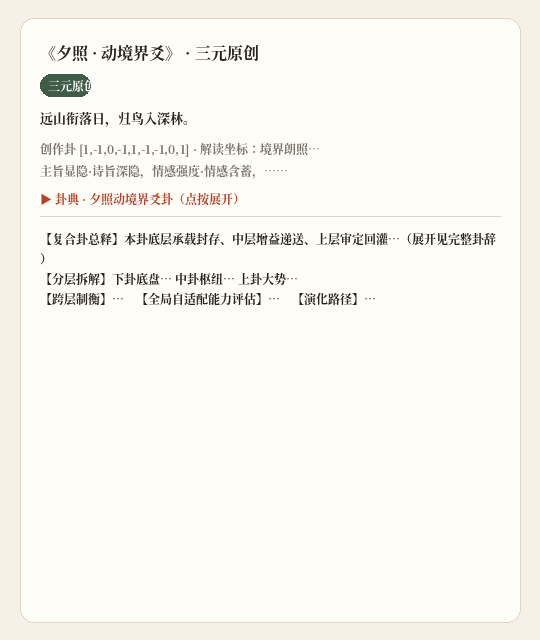
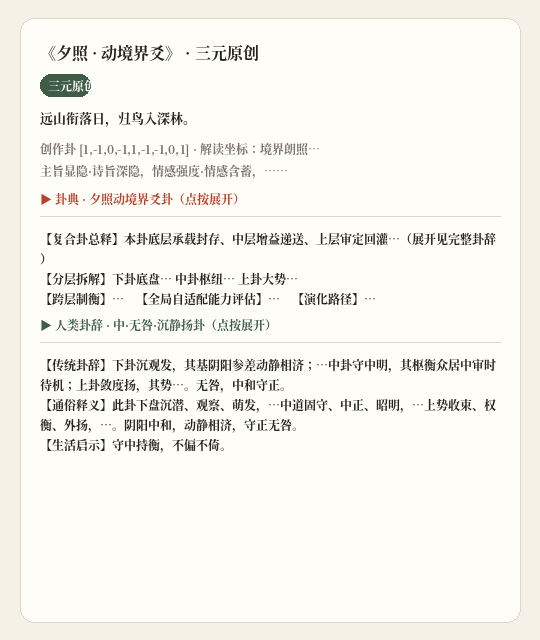
feat: 卦典人类语言转译层(母结构→人类认知语言,双轨)
- humanize.py: 确定性转译引擎, D/R/T母语言→传统卦辞+通俗释义+生活启示, 19683卦全生成
- 转译表: 爻位职能×爻态→文言/通俗词; 断辞由全局D/R/T分布确定性得出
- sanjiu_quanji_human_apk.json: 本App 29卦人类卦辞(17KB)
- SanjiuEngine: initHuman/getHuman/humanMing; MainActivity: 每卡新增「人类卦辞」块(松花绿,点按展开)
- 全量 human csv/json 走 Release v0.3.0

diff --git a/trigram/humanize.py b/trigram/humanize.py
@@ -1,0 +1,147 @@
+# -*- coding: utf-8 -*-
+"""卦典·人类语言转译引擎。
+
+母结构（三元九爻 D/R/T）→ 人类原有认知语言（周易传统卦辞 + 通俗释义 + 生活启示）。
+原则：结构归母（D/R/T 三元不动），表达归人类。确定性、可复现：同一卦永远产出同一卦辞。
+
+确定性转译表（位 × 态）：
+  爻位 g1..g9 = 上势/上承/上纳 · 中转/中衡/中通 · 下启/下固/下基
+  爻态 D(承载·削减·封存)→藏收固止 | R(审定·评估·回灌)→察度辨审 | T(增益·势能·递送)→发行通扬
+"""
+import csv
+import json
+import os
+
+_H = os.path.dirname(os.path.abspath(__file__))
+OUT_CSV = os.path.join(_H, "sanjiu_quanji_human.csv")
+OUT_JSON = os.path.join(_H, "sanjiu_quanji_human.json")
+
+DRT2I = {"D": 0, "R": 1, "T": 2}
+
+# 位 × 态 → 文言词（9 位 g1..g9，按 上→下 排；D/R/T）
+WENYAN = {
+    0: ["止", "度", "扬"], 1: ["藏", "审", "行"], 2: ["敛", "辨", "纳"],
+    3: ["守", "转", "动"], 4: ["静", "中", "明"], 5: ["滞", "导", "通"],
+    6: ["闭", "察", "启"], 7: ["蓄", "度", "生"], 8: ["沉", "观", "发"],
+}
+# 位 × 态 → 通俗词
+SU = {
+    0: ["收束", "权衡", "外扬"], 1: ["隐藏", "审度", "前行"], 2: ["敛聚", "明辨", "接纳"],
+    3: ["固守", "转圜", "发动"], 4: ["沉静", "中正", "昭明"], 5: ["阻滞", "疏导", "通达"],
+    6: ["闭藏", "觉察", "开启"], 7: ["蓄积", "估量", "生发"], 8: ["沉潜", "观察", "萌发"],
+}
+# 三层（上/中/下 对应的 g 下标 0..8；g1=上爻=0，g9=下爻=8）
+LAYERS = {"下": (6, 7, 8), "中": (3, 4, 5), "上": (0, 1, 2)}
+LNAME = {"下": "基", "中": "枢", "上": "势"}
+
+
+def _idx(drt):
+    n = 0
+    for c in drt:
+        n = n * 3 + DRT2I[c]
+    return n
+
+
+def _counts(drt):
+    return drt.count("D"), drt.count("R"), drt.count("T")
+
+
+def layer_verdict(ds):
+    """某层三爻 → 层断辞（文言）。ds: 该层 3 个 D/R/T 字符（自下而上或按层序均可）。"""
+    d, r, t = ds.count("D"), ds.count("R"), ds.count("T")
+    if d == 3:
+        return "重阴厚藏，宜静宜守"
+    if r == 3:
+        return "三衡相济，审于中正"
+    if t == 3:
+        return "纯阳通泰，动而宜行"
+    if t == 2 and d == 1:
+        return "阳动阴承，行而有节"
+    if d == 2 and t == 1:
+        return "阴厚阳微，守而后动"
+    if r == 2:
+        return "衡众居中，审时待机"
+    return "阴阳参差，动静相济"
+
+
+def break_verdict(drt):
+    """总断辞（吉凶悔吝倾向，由全局 D/R/T 分布确定性得出）。"""
+    d, r, t = _counts(drt)
+    if t >= 6:
+        return "元亨，利有攸往，吉", "阳动盛大，宜乘势而为，主动进取", "乘势而行，主动作为之时"
+    if d >= 6:
+        return "利贞，宜守宜藏，静待时势", "阴重收敛，宜蓄不宜发，静以守成", "养晦蓄势，静待天时"
+    if r >= 6:
+        return "贞吉，慎辨明度，无咎", "审度居中，谋定后动，可免悔吝", "谋定后动，审时度势"
+    if t > d and t > r:
+        return "亨，小吉，利行而不宜躁", "阳势为主，可行而忌急进", "顺势而行，戒骄戒躁"
+    if d > t and d > r:
+        return "贞，小吝，宜蓄不宜发", "阴势为主，宜收宜藏，静以蓄力", "收敛固本，静观其变"
+    if r > t and r > d:
+        return "悔亡，审时而后动", "衡主其中，宜辨宜度，待机而动", "审时度势，谋定后动"
+    return "无咎，中和守正", "阴阳中和，动静相济，守正无咎", "守中持衡，不偏不倚"
+
+
+def humanize(drt):
+    """drt: 9 字符 D/R/T（g1 上→g9 下）。返回人类语言卦辞 dict。"""
+    # 三层：文言/通俗/层断
+    gw, gs, gv = {}, {}, {}
+    for name, pos in LAYERS.items():
+        chars = [drt[p] for p in pos]
+        gw[name] = "".join(WENYAN[p][DRT2I[drt[p]]] for p in pos)
+        gs[name] = "、".join(SU[p][DRT2I[drt[p]]] for p in pos)
+        gv[name] = layer_verdict(chars)
+    bd, bd_s, bd_q = break_verdict(drt)
+    yin = yinyang(drt)
+    # 人类卦名：阴阳 + 断辞主词 + 三层首字
+    ming = f"{yin}·{bd.split('，')[0]}·{gw['下'][0]}{gw['中'][0]}{gw['上'][0]}卦"
+    # 传统卦辞（文言，自下而上：下→中→上）
+    guan = (f"下卦{''.join(WENYAN[p][DRT2I[drt[p]]] for p in reversed(LAYERS['下']))}，其基{gv['下']}；"
+            f"中卦{''.join(WENYAN[p][DRT2I[drt[p]]] for p in LAYERS['中'])}，其枢{gv['中']}；"
+            f"上卦{''.join(WENYAN[p][DRT2I[drt[p]]] for p in reversed(LAYERS['上']))}，其势{gv['上']}。"
+            f"{bd}。")
+    # 通俗释义
+    su = (f"此卦下盘{'、'.join(SU[p][DRT2I[drt[p]]] for p in LAYERS['下'])}，{gv['下']}；"
+          f"中道{'、'.join(SU[p][DRT2I[drt[p]]] for p in LAYERS['中'])}，{gv['中']}；"
+          f"上势{'、'.join(SU[p][DRT2I[drt[p]]] for p in LAYERS['上'])}，{gv['上']}。{bd_s}。")
+    return {
+        "idx": _idx(drt), "drt": drt, "yinyang": yin,
+        "ming": ming, "guan": guan, "su": su, "qi": bd_q,
+    }
+
+
+def yinyang(drt):
+    d, r, t = _counts(drt)
+    return "阳" if t > d else "阴" if d > t else "中"
+
+
+def gen_all():
+    out = {}
+    for n in range(19683):
+        x, d = n, ""
+        for _ in range(9):
+            d = "DRT"[x % 3] + d
+            x //= 3
+        out[n] = humanize(d)
+    return out
+
+
+if __name__ == "__main__":
+    d = gen_all()
+    print("全量卦数:", len(d))
+    for n in [0, 19682, 189]:
+        h = d[n]
+        print(f"--- idx {n} ({h['drt']}) {h['yinyang']} ---")
+        print("  卦名:", h["ming"])
+        print("  传统:", h["guan"])
+        print("  通俗:", h["su"])
+        print("  启示:", h["qi"])
+    with open(OUT_JSON, "w", encoding="utf-8") as f:
+        json.dump(d, f, ensure_ascii=False, indent=0)
+    with open(OUT_CSV, "w", encoding="utf-8-sig", newline="") as f:
+        w = csv.writer(f)
+        w.writerow(["idx", "drt", "yinyang", "ming", "guan", "su", "qi"])
+        for n in range(19683):
+            h = d[n]
+            w.writerow([h["idx"], h["drt"], h["yinyang"], h["ming"], h["guan"], h["su"], h["qi"]])
+    print("写出:", OUT_CSV, os.path.getsize(OUT_CSV), "B ;", OUT_JSON, os.path.getsize(OUT_JSON), "B")

diff --git a/project/android/SanjiuPoem/app/src/main/java/com/example/sanjiupoem/MainActivity.java b/project/android/SanjiuPoem/app/src/main/java/com/example/sanjiupoem/MainActivity.java
@@ -175,6 +175,7 @@ public class MainActivity extends Activity {
             origPoems = new ArrayList<>();
         }
         SanjiuEngine.initQuanji(this);
+        SanjiuEngine.initHuman(this);
         refresh();
     }
 
@@ -270,6 +271,7 @@ public class MainActivity extends Activity {
         meta.setTextColor(GRAY);
         card.addView(meta);
         addQuanjiBlock(card, p.gua);
+        addHumanBlock(card, p.gua);
         return card;
     }
 
@@ -414,6 +416,7 @@ public class MainActivity extends Activity {
         meta.setTextColor(GRAY);
         card.addView(meta);
         addQuanjiBlock(card, p.gua);
+        addHumanBlock(card, p.gua);
         return card;
     }
 
@@ -480,6 +483,27 @@ public class MainActivity extends Activity {
                               : ("▶ 卦典 · " + name + "（点按展开）"));
         });
         card.addView(q);
+    }
+
+    // 人类语言卦辞块：母结构 → 人类认知语言（传统卦辞 + 通俗释义 + 生活启示）
+    private void addHumanBlock(LinearLayout card, int[] gua) {
+        int idx = SanjiuEngine.idxOf(gua);
+        final String full = SanjiuEngine.getHuman(idx);
+        final String ming = SanjiuEngine.humanMing(idx);
+        if (full == null) return;
+        TextView h = new TextView(this);
+        h.setText("▶ 人类卦辞 · " + ming + "（点按展开）");
+        h.setTextSize(12f);
+        h.setTextColor(GREEN);
+        h.setTypeface(h.getTypeface(), android.graphics.Typeface.BOLD);
+        h.setPadding(0, dp(4), 0, dp(4));
+        final boolean[] open = {false};
+        h.setOnClickListener(v -> {
+            open[0] = !open[0];
+            h.setText(open[0] ? ("▼ 人类卦辞 · " + ming + "\n\n" + full)
+                              : ("▶ 人类卦辞 · " + ming + "（点按展开）"));
+        });
+        card.addView(h);
     }
 
     private View space(int h) {

diff --git a/project/android/SanjiuPoem/app/src/main/java/com/example/sanjiupoem/SanjiuEngine.java b/project/android/SanjiuPoem/app/src/main/java/com/example/sanjiupoem/SanjiuEngine.java
@@ -246,4 +246,46 @@ public class SanjiuEngine {
             return "";
         }
     }
+
+    // ---------------- 人类语言卦辞（母结构 → 人类认知语言，双轨） ----------------
+    private static JSONObject HUMAN = null;
+
+    /** 加载 assets/sanjiu_quanji_human_apk.json（传统卦辞 + 通俗释义 + 生活启示）。 */
+    public static void initHuman(Context ctx) {
+        if (HUMAN != null) return;
+        try {
+            InputStream is = ctx.getAssets().open("sanjiu_quanji_human_apk.json");
+            java.io.ByteArrayOutputStream b = new java.io.ByteArrayOutputStream();
+            byte[] buf = new byte[8192];
+            int n;
+            while ((n = is.read(buf)) != -1) b.write(buf, 0, n);
+            is.close();
+            HUMAN = new JSONObject(new String(b.toByteArray(), "UTF-8"));
+        } catch (Exception e) {
+            HUMAN = null;
+        }
+    }
+
+    /** 人类卦辞全文（传统卦辞 + 通俗释义 + 生活启示）。 */
+    public static String getHuman(int idx) {
+        if (HUMAN == null) return null;
+        try {
+            JSONObject g = HUMAN.getJSONObject(String.valueOf(idx));
+            return "【传统卦辞】\n" + g.optString("guan")
+                    + "\n\n【通俗释义】\n" + g.optString("su")
+                    + "\n\n【生活启示】\n" + g.optString("qi");
+        } catch (Exception e) {
+            return null;
+        }
+    }
+
+    /** 人类卦名。 */
+    public static String humanMing(int idx) {
+        if (HUMAN == null) return "";
+        try {
+            return HUMAN.getJSONObject(String.valueOf(idx)).optString("ming");
+        } catch (Exception e) {
+            return "";
+        }
+    }
 }

diff --git a/project/android/SanjiuPoem/_ui_preview_quanji.py b/project/android/SanjiuPoem/_ui_preview_quanji.py
@@ -73,6 +73,15 @@ def main():
                "【跨层制衡】…　【全局自适配能力评估】…　【演化路径】…"]:
         for sub in wrap(dr, ln, f12, W - 80):
             dr.text((40, y), sub, font=f12, fill=INK); y += 20
+    y += 6
+    # 人类卦辞块（松花绿）：母结构 → 人类认知语言
+    dr.text((40, y), "▶ 人类卦辞 · 中·无咎·沉静扬卦（点按展开）", font=f12, fill=GREEN); y += 26
+    dr.line((40, y, W - 40, y), fill=(222, 214, 200)); y += 14
+    for ln in ["【传统卦辞】下卦沉观发，其基阴阳参差动静相济；…中卦守中明，其枢衡众居中审时待机；上卦敛度扬，其势…。无咎，中和守正。",
+               "【通俗释义】此卦下盘沉潜、观察、萌发，…中道固守、中正、昭明，…上势收束、权衡、外扬，…。阴阳中和，动静相济，守正无咎。",
+               "【生活启示】守中持衡，不偏不倚。"]:
+        for sub in wrap(dr, ln, f12, W - 80):
+            dr.text((40, y), sub, font=f12, fill=INK); y += 20
     im.save("/tmp/quanji_preview.png")
     print("saved /tmp/quanji_preview.png")
 
